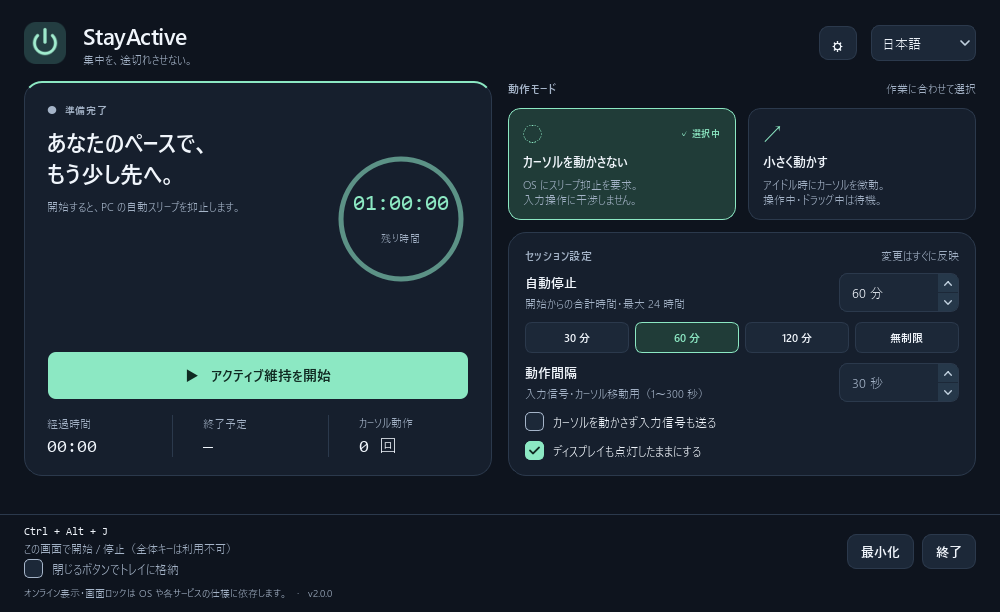
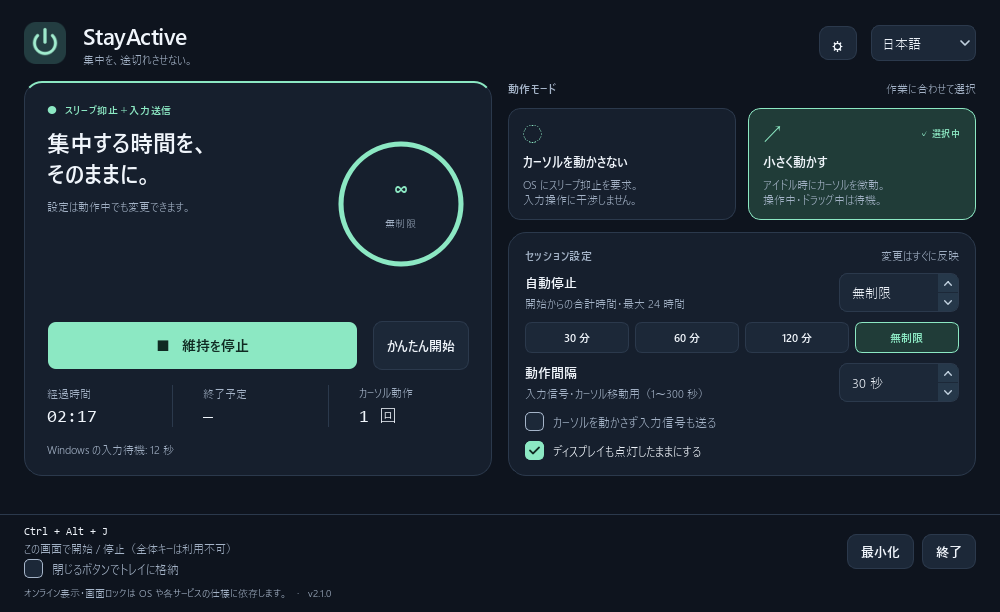
feat: add one-click input maintenance and Windows idle diagnostics

diff --git a/stayactive/ui.py b/stayactive/ui.py
@@ -4,7 +4,7 @@ from datetime import datetime, timedelta
 import math
 from pathlib import Path
 
-from PyQt6.QtCore import QByteArray, QPointF, QRectF, Qt, QTimer
+from PyQt6.QtCore import QByteArray, QPointF, QRectF, QSignalBlocker, Qt, QTimer
 from PyQt6.QtGui import QAction, QColor, QIcon, QKeySequence, QPainter, QPen, QPixmap, QShortcut
 from PyQt6.QtWidgets import (
     QApplication, QBoxLayout, QButtonGroup, QCheckBox, QComboBox, QFrame, QHBoxLayout,
@@ -240,7 +240,17 @@ class StayActiveApp(QWidget):
         self.start_button.setObjectName("primary")
         self.start_button.setMinimumHeight(49)
         self.start_button.clicked.connect(self.toggle_session)
-        hero_layout.addWidget(self.start_button)
+        self.quick_start_button = QPushButton()
+        self.quick_start_button.setObjectName("quickStart")
+        self.quick_start_button.setMinimumHeight(49)
+        self.quick_available = (self.controller.cursor.system == "Windows"
+            and self.controller.cursor.available and self.controller.backend.available)
+        self.quick_start_button.setVisible(bool(self.quick_available))
+        self.quick_start_button.clicked.connect(self.quick_start)
+        actions = QHBoxLayout()
+        actions.addWidget(self.start_button, 1)
+        actions.addWidget(self.quick_start_button)
+        hero_layout.addLayout(actions)
         metrics = QHBoxLayout()
         self.metric_captions, self.metric_values = [], []
         for index in range(3):
@@ -259,6 +269,9 @@ class StayActiveApp(QWidget):
                 metrics.addWidget(line)
                 metrics.addSpacing(15)
         hero_layout.addLayout(metrics)
+        self.input_status = label("", "muted", True)
+        self.input_status.setVisible(self.controller.cursor.system == "Windows")
+        hero_layout.addWidget(self.input_status)
         self.dashboard.addWidget(self.hero, 1)
 
         self.alert = QFrame()
@@ -411,6 +424,10 @@ class StayActiveApp(QWidget):
 
     def translate(self):
         self.tagline.setText(self.tr("tagline"))
+        self.quick_start_button.setText(self.tr("quick_start"))
+        self.quick_start_button.setToolTip(self.tr("quick_hint"))
+        self.quick_start_button.setAccessibleDescription(self.tr("quick_hint"))
+        self.input_status.setToolTip(self.tr("input_idle_hint"))
         self.language_combo.setAccessibleName(self.tr("language"))
         self.language_combo.setToolTip(self.tr("language"))
         self.mode_heading.setText(self.tr("mode_section"))
@@ -455,7 +472,10 @@ class StayActiveApp(QWidget):
         controller = self.controller
         running = controller.running
         reason = "running" if running else controller.reason
-        self.status.setText("●  " + self.tr(reason))
+        status_key = reason
+        if running and (controller.options.mode == "cursor" or controller.stationary_input):
+            status_key = "running_input" if controller.backend.available else "running_cursor_only"
+        self.status.setText("●  " + self.tr(status_key))
         self.status.setProperty("error", reason == "error")
         headline = "hero_running" if running else "hero_error" if reason == "error" else "hero_done" if reason == "completed" else "hero_ready"
         hint = "running_hint" if running else "error_hint" if reason == "error" else "done_hint" if reason in ("completed", "stopped") else "ready_hint"
@@ -477,6 +497,10 @@ class StayActiveApp(QWidget):
         self.metric_values[0].setText(clock_text(controller.elapsed))
         self.metric_values[1].setText((datetime.now() + timedelta(seconds=controller.remaining)).strftime("%H:%M") if running and controller.remaining is not None else "—")
         self.metric_values[2].setText(str(controller.pulses) + self.tr("times"))
+        idle = controller.input_idle_seconds
+        idle_value = (str(int(idle)) + self.tr("seconds") if idle is not None
+            else self.tr("input_idle_unknown") if running else self.tr("input_idle_stopped"))
+        self.input_status.setText(self.tr("input_idle") + ": " + idle_value)
         self.interval_spin.setEnabled(controller.options.mode == "cursor" or controller.stationary_input)
         self.idle_checkbox.setEnabled(controller.options.mode == "quiet" and controller.cursor.available and controller.cursor.system == "Windows")
         self.metric_captions[2].setText(self.tr("signals" if controller.stationary_input else "movements"))
@@ -500,7 +524,7 @@ class StayActiveApp(QWidget):
             self.status.setProperty("active", running)
             self.status.style().unpolish(self.status)
             self.status.style().polish(self.status)
-        tooltip = "StayActive · " + self.tr(reason)
+        tooltip = "StayActive · " + self.tr(status_key)
         if running and controller.remaining is not None:
             tooltip += " · " + clock_text(math.ceil(controller.remaining))
         if tooltip != self._last_tooltip:
@@ -511,6 +535,25 @@ class StayActiveApp(QWidget):
         options = SessionOptions("quiet" if self.quiet_card.isChecked() else "cursor",
             self.interval_spin.value(), self.duration_spin.value(), self.display_checkbox.isChecked(), self.idle_checkbox.isChecked())
         self.controller.configure(options)
+        self.render_state()
+        self.queue_save()
+
+    def quick_start(self):
+        """入力＋スリープ抑止を明示的な一操作で開始。設定変更は一括で反映する。"""
+        if not self.quick_available:
+            return
+        controls = (self.quiet_card, self.cursor_card, self.duration_spin,
+            self.interval_spin, self.display_checkbox, self.idle_checkbox)
+        blockers = [QSignalBlocker(control) for control in controls]
+        self.cursor_card.setChecked(True)
+        self.duration_spin.setValue(0)
+        self.interval_spin.setValue(30)
+        self.display_checkbox.setChecked(True)
+        self.idle_checkbox.setChecked(False)
+        del blockers
+        self.alert.hide()
+        self.controller.configure(SessionOptions("cursor", 30, 0, True, False))
+        self.controller.start()
         self.render_state()
         self.queue_save()
 

diff --git a/stayactive/i18n.py b/stayactive/i18n.py
@@ -3,7 +3,14 @@
 TEXT = {
     "ja": {
         "tagline": "集中を、途切れさせない。", "theme_dark": "ダークに切替", "theme_light": "ライトに切替",
-        "language": "表示言語", "ready": "準備完了", "running": "アクティブ維持中", "stopped": "停止しました",
+        "language": "表示言語", "ready": "準備完了", "running": "スリープ抑止中", "stopped": "停止しました",
+        "running_input": "スリープ抑止＋入力送信",
+        "running_cursor_only": "入力送信中（OS 抑止なし）",
+        "quick_start": "かんたん開始",
+        "quick_hint": "Windows 専用。30 秒以上操作がないときだけカーソルを微動し、画面の点灯とスリープ抑止を無制限で続けます。オンライン表示は各サービスに依存します。",
+        "input_idle": "Windows の入力待機", "input_idle_stopped": "開始後に計測",
+        "input_idle_unknown": "取得できません",
+        "input_idle_hint": "この Windows セッションで最後の入力から経過した時間です。入力内容は取得・保存しません。他アプリのオンライン状態を示す値ではありません。",
         "completed": "セッション完了", "error": "確認が必要です", "hero_ready": "あなたのペースで、\nもう少し先へ。",
         "hero_running": "集中する時間を、\nそのままに。", "hero_done": "おつかれさまでした。",
         "hero_error": "動作を停止しました。", "ready_hint": "開始すると、PC の自動スリープを抑止します。",
@@ -37,7 +44,14 @@ TEXT = {
     },
     "en": {
         "tagline": "Stay in your flow.", "theme_dark": "Switch to dark", "theme_light": "Switch to light",
-        "language": "Display language", "ready": "READY WHEN YOU ARE", "running": "KEEPING YOU ACTIVE", "stopped": "SESSION STOPPED",
+        "language": "Display language", "ready": "READY WHEN YOU ARE", "running": "PREVENTING SLEEP", "stopped": "SESSION STOPPED",
+        "running_input": "PREVENTING SLEEP + SENDING INPUT",
+        "running_cursor_only": "SENDING INPUT (NO OS INHIBITION)",
+        "quick_start": "Quick start",
+        "quick_hint": "Windows only. Keeps the display and system awake indefinitely, with tiny cursor moves only after 30 seconds without input. Online presence depends on each service.",
+        "input_idle": "Windows input idle", "input_idle_stopped": "Measured after start",
+        "input_idle_unknown": "Unavailable",
+        "input_idle_hint": "Time since the last input in this Windows session. No input contents are read or stored. This is not another app's online status.",
         "completed": "SESSION COMPLETE", "error": "NEEDS ATTENTION", "hero_ready": "A little more time.\nA little more flow.",
         "hero_running": "Keep your focus.\nWe’re here.", "hero_done": "Time well spent.", "hero_error": "Session stopped.",
         "ready_hint": "Keep your PC awake while you focus.", "running_hint": "Adjust your settings at any time.",

diff --git a/stayactive/controller.py b/stayactive/controller.py
@@ -1,6 +1,7 @@
 """単一の Qt タイマーによるセッション制御。状態・期限は単調時計で管理する。"""
 
 import logging
+import math
 import time
 
 from PyQt6.QtCore import QObject, QTimer, pyqtSignal
@@ -28,6 +29,8 @@ class ActivityController(QObject):
         self.next_pulse = None
         self.elapsed = 0.0
         self.pulses = 0
+        self.input_idle_seconds = None
+        self._next_idle_sample = 0.0
         self.reason = "ready"
         self.timer = QTimer(self)
         self.timer.setInterval(250)
@@ -63,6 +66,8 @@ class ActivityController(QObject):
             self.elapsed, self.pulses = 0.0, 0
             self.reason = "running"
             self.running = True
+            self._next_idle_sample = 0.0
+            self._sample_input_idle(now)
             self.timer.start()
             self.changed.emit()
             return True
@@ -77,6 +82,7 @@ class ActivityController(QObject):
         self.running = False
         self.timer.stop()
         self.next_pulse = None
+        self.input_idle_seconds = None
         self.reason = reason
         try:
             self.backend.stop()
@@ -125,6 +131,7 @@ class ActivityController(QObject):
             return
         try:
             self.backend.check()
+            self._sample_input_idle(now)
             sends_input = self.options.mode == "cursor" or self.stationary_input
             if sends_input:
                 self.cursor.check_safety()
@@ -133,11 +140,28 @@ class ActivityController(QObject):
                         else self.cursor.pulse(self.options.interval_seconds))
                 if sent:
                     self.pulses += 1
+                    # SendInput の受理と OS が観測する待機時間は別。次の tick で再計測する。
+                    self._next_idle_sample = now
                 self.next_pulse = now + self.options.interval_seconds
         except Exception as exc:
             self._fail(exc)
             return
         self.changed.emit()
+
+    def _sample_input_idle(self, now):
+        if now < self._next_idle_sample:
+            return
+        self._next_idle_sample = now + 1.0
+        self.input_idle_seconds = None
+        if self.cursor.system != "Windows":
+            return
+        try:
+            value = self.cursor.idle_seconds()
+            if isinstance(value, (int, float)) and math.isfinite(value) and value >= 0:
+                self.input_idle_seconds = value
+        except Exception:
+            # 診断表示の失敗だけでスリープ抑止を解除しない。入力送信の失敗は pulse が扱う。
+            pass
 
     def _fail(self, exc):
         LOG.error("Session failed: %s", exc, exc_info=True)

diff --git a/tests/test_settings_ui.py b/tests/test_settings_ui.py
@@ -82,6 +82,47 @@ class UITests(unittest.TestCase):
         self.assertIn("Stop", self.window.start_button.text())
         self.backend.start.assert_called_once()
 
+    def test_quick_start_applies_complete_profile_and_starts_once(self):
+        self.window.quick_start_button.click()
+        self.assertEqual(self.controller.options, SessionOptions("cursor", 30, 0, True, False))
+        self.assertTrue(self.controller.running)
+        self.assertTrue(self.window.cursor_card.isChecked())
+        self.assertEqual(self.window.duration_spin.value(), 0)
+        self.assertEqual(self.window.interval_spin.value(), 30)
+        self.window.quick_start_button.click()
+        self.backend.start.assert_called_once_with(True)
+        self.cursor.pulse.assert_not_called()
+
+    def test_quick_start_switches_expiring_session_atomically(self):
+        self.window.duration_spin.setValue(1)
+        self.controller.clock = lambda: 100
+        self.controller.start()
+        self.controller.clock = lambda: 161
+        self.window.quick_start_button.click()
+        self.assertTrue(self.controller.running)
+        self.assertIsNone(self.controller.deadline)
+        self.assertEqual(self.controller.started_at, 100)
+        self.backend.stop.assert_not_called()
+
+    def test_input_diagnostic_is_localized_and_cleared_on_stop(self):
+        self.cursor.idle_seconds.return_value = 17.5
+        self.controller.start()
+        self.assertIn("17", self.window.input_status.text())
+        self.window.language_combo.setCurrentIndex(1)
+        self.assertIn("Windows input idle", self.window.input_status.text())
+        self.controller.stop()
+        self.assertIn("Measured after start", self.window.input_status.text())
+
+    def test_quick_start_is_unavailable_without_os_inhibition(self):
+        self.window.quick_available = False
+        self.window.quick_start()
+        self.assertFalse(self.controller.running)
+        self.backend.start.assert_not_called()
+        self.backend.available = False
+        self.window.cursor_card.click()
+        self.controller.start()
+        self.assertIn("OS 抑止なし", self.window.status.text())
+
     def test_button_stops_and_escape_stops(self):
         self.window.start_button.click()
         self.window.start_button.click()

diff --git a/tests/test_controller.py b/tests/test_controller.py
@@ -38,6 +38,40 @@ class ControllerTests(unittest.TestCase):
         self.assertTrue(self.controller.start())
         self.backend.start.assert_called_once_with(True)
 
+    def test_idle_diagnostic_samples_once_per_second_and_after_input(self):
+        self.cursor.system = "Windows"
+        self.cursor.idle_seconds.return_value = 14.5
+        self.configure(mode="cursor", interval_seconds=1)
+        self.controller.start()
+        self.assertEqual(self.controller.input_idle_seconds, 14.5)
+        self.advance(.25)
+        self.cursor.idle_seconds.assert_called_once()
+        self.advance(.75)
+        self.assertEqual(self.cursor.idle_seconds.call_count, 2)
+        self.cursor.idle_seconds.return_value = .25
+        self.advance(.25)
+        self.assertEqual(self.controller.input_idle_seconds, .25)
+        self.controller.stop()
+        self.assertIsNone(self.controller.input_idle_seconds)
+
+    def test_diagnostic_failure_does_not_cancel_power_request(self):
+        self.cursor.system = "Windows"
+        self.cursor.idle_seconds.side_effect = OSError("diagnostic unavailable")
+        self.assertTrue(self.controller.start())
+        self.advance(2)
+        self.assertTrue(self.controller.running)
+        self.assertIsNone(self.controller.input_idle_seconds)
+        self.backend.stop.assert_not_called()
+        self.assertFalse(self.errors)
+
+    def test_nonfinite_diagnostics_are_not_displayed(self):
+        self.cursor.system = "Windows"
+        for value in (float("nan"), float("inf"), -1):
+            self.cursor.idle_seconds.return_value = value
+            self.controller.start()
+            self.assertIsNone(self.controller.input_idle_seconds)
+            self.controller.stop()
+
     def test_rapid_stop_start_never_creates_extra_timer(self):
         self.configure(mode="cursor", interval_seconds=1)
         for _ in range(100):

diff --git a/stayactive/backends.py b/stayactive/backends.py
@@ -132,16 +132,21 @@ class CursorBackend:
             if point.x == 0 and point.y == 0:
                 raise BackendError("画面左上で緊急停止しました。 / Emergency stop at the top-left corner.")
 
+    def idle_seconds(self):
+        """この Windows セッションの入力待機時間。アプリの在席表示ではない。"""
+        if self.system != "Windows":
+            return None
+        last = _LastInputInfo(ctypes.sizeof(_LastInputInfo), 0)
+        if not self.user.GetLastInputInfo(ctypes.byref(last)):
+            raise BackendError("入力状態を取得できません。 / Could not read input state.")
+        return ((self.kernel.GetTickCount() - last.dwTime) & 0xFFFFFFFF) / 1000.0
+
     def pulse(self, idle_seconds: int, *, move=True) -> bool:
         if not self.available:
             raise BackendError("Wayland ではカーソル移動を利用できません。 / Cursor movement is unavailable on Wayland.")
         if self.system == "Windows":
             self.check_safety()
-            last = _LastInputInfo(ctypes.sizeof(_LastInputInfo), 0)
-            if not self.user.GetLastInputInfo(ctypes.byref(last)):
-                raise BackendError("入力状態を取得できません。 / Could not read input state.")
-            idle_ms = (self.kernel.GetTickCount() - last.dwTime) & 0xFFFFFFFF
-            if idle_ms < idle_seconds * 1000:
+            if self.idle_seconds() < idle_seconds:
                 return False
             if any(self.user.GetAsyncKeyState(key) & 0x8000 for key in (1, 2, 4, 5, 6)):
                 return False

diff --git a/tools/render_preview.py b/tools/render_preview.py
@@ -21,6 +21,7 @@ parser.add_argument("--language", choices=["ja", "en"], default="ja")
 parser.add_argument("--width", type=int, default=1000)
 parser.add_argument("--height", type=int, default=612)
 parser.add_argument("--running", action="store_true")
+parser.add_argument("--quick-start", action="store_true")
 parser.add_argument("--output", type=Path, required=True)
 args = parser.parse_args()
 app = QApplication([])
@@ -35,11 +36,13 @@ with tempfile.TemporaryDirectory() as directory:
     store.save(SessionOptions(), args.language, args.theme, False)
     clock = [100.0]
     controller = ActivityController(backend=Mock(available=True, display_supported=True),
-        cursor=Mock(available=True, system="Windows"), clock=lambda: clock[0])
+        cursor=Mock(available=True, system="Windows", idle_seconds=Mock(return_value=12.0)), clock=lambda: clock[0])
     window = StayActiveApp(store, controller, integrations=False)
     window.show()
     window.resize(args.width, args.height)
-    if args.running:
+    if args.quick_start:
+        window.quick_start()
+    if args.running or args.quick_start:
         controller.start()
         clock[0] += 137
         controller.tick()

diff --git a/tests/test_platform.py b/tests/test_platform.py
@@ -133,6 +133,22 @@ class WindowsTests(unittest.TestCase):
         self.assertFalse(cursor.pulse(30))
         cursor.user.SendInput.assert_not_called()
 
+    def test_idle_diagnostic_handles_tick_wraparound(self):
+        cursor = self.make_cursor()
+        cursor.kernel.GetTickCount.return_value = 20
+        def get_last(pointer):
+            pointer._obj.dwTime = 0xFFFFFFF0
+            return True
+        cursor.user.GetLastInputInfo.side_effect = get_last
+        self.assertAlmostEqual(cursor.idle_seconds(), .036)
+
+    def test_idle_diagnostic_reports_read_failure(self):
+        cursor = self.make_cursor()
+        cursor.user.GetLastInputInfo.side_effect = None
+        cursor.user.GetLastInputInfo.return_value = False
+        with self.assertRaises(BackendError):
+            cursor.idle_seconds()
+
     def test_cursor_waits_for_drag(self):
         cursor = self.make_cursor()
         cursor.user.GetAsyncKeyState.return_value = -32768

diff --git a/stayactive/__init__.py b/stayactive/__init__.py
@@ -1,3 +1,3 @@
 """StayActive — a small, local desktop companion."""
 
-__version__ = "2.0.0"
+__version__ = "2.1.0"

diff --git a/CHANGELOG.md b/CHANGELOG.md
@@ -1,3 +1,14 @@
+# StayActive 2.1.0 — 2026-10-28
+
+- Windows の「かんたん開始」を追加。カーソル微動・30 秒間隔・無制限・画面点灯を一操作で設定し、開始する。実行中も設定を一括適用し、期限切れの途中状態や処理重複を防ぐ。
+- Windows セッションの入力待機時間を約 1 秒ごとに計測・表示。送信後は次のタイマーで再計測する。入力内容や待機時間の履歴は保存・送信しない。
+- 診断だけが取得できない場合は、OS のスリープ抑止を維持する。送信自体の失敗は従来どおり検出・停止する。
+- 状態表示を「スリープ抑止中」「スリープ抑止＋入力送信」に変更し、他アプリのオンライン状態との混同を避ける。
+- 方法の比較と Windows API・Slack・Teams の公式仕様を README に追記。
+- 70 件の回帰テスト。かんたん開始の連打・実行中の一括切り替え・待機時間の取得失敗・32bit タイマーの周回・翻訳・大小画面を検証。
+- Windows の実ウィンドウから「かんたん開始」を操作し、30 秒間の入力待機後の微動と、OS が観測する待機時間の約 0.27 秒への更新を実測。OS 抑止要求の取得・試験終了時の解除も確認。
+- 全アプリの在席表示、ロック解除、管理者アプリへの入力は保証しない。macOS / Linux の実デスクトップでの検証は引き続き未実施。
+
 # StayActive 2.0.0 — 2026-10-28
 
 ## 実行と安全な終了
